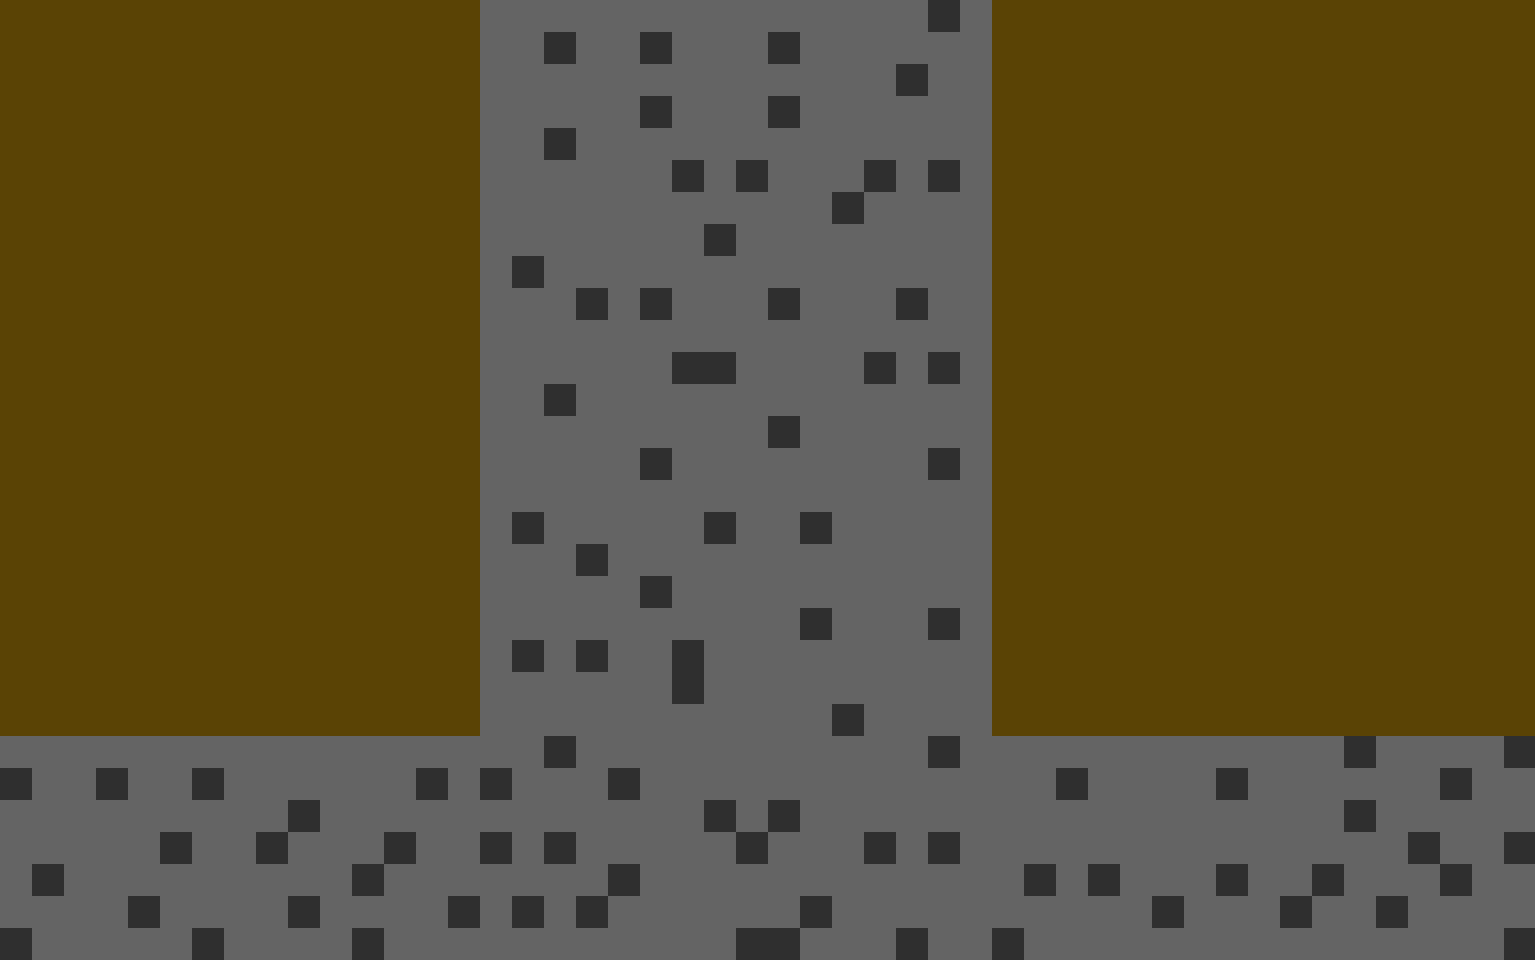
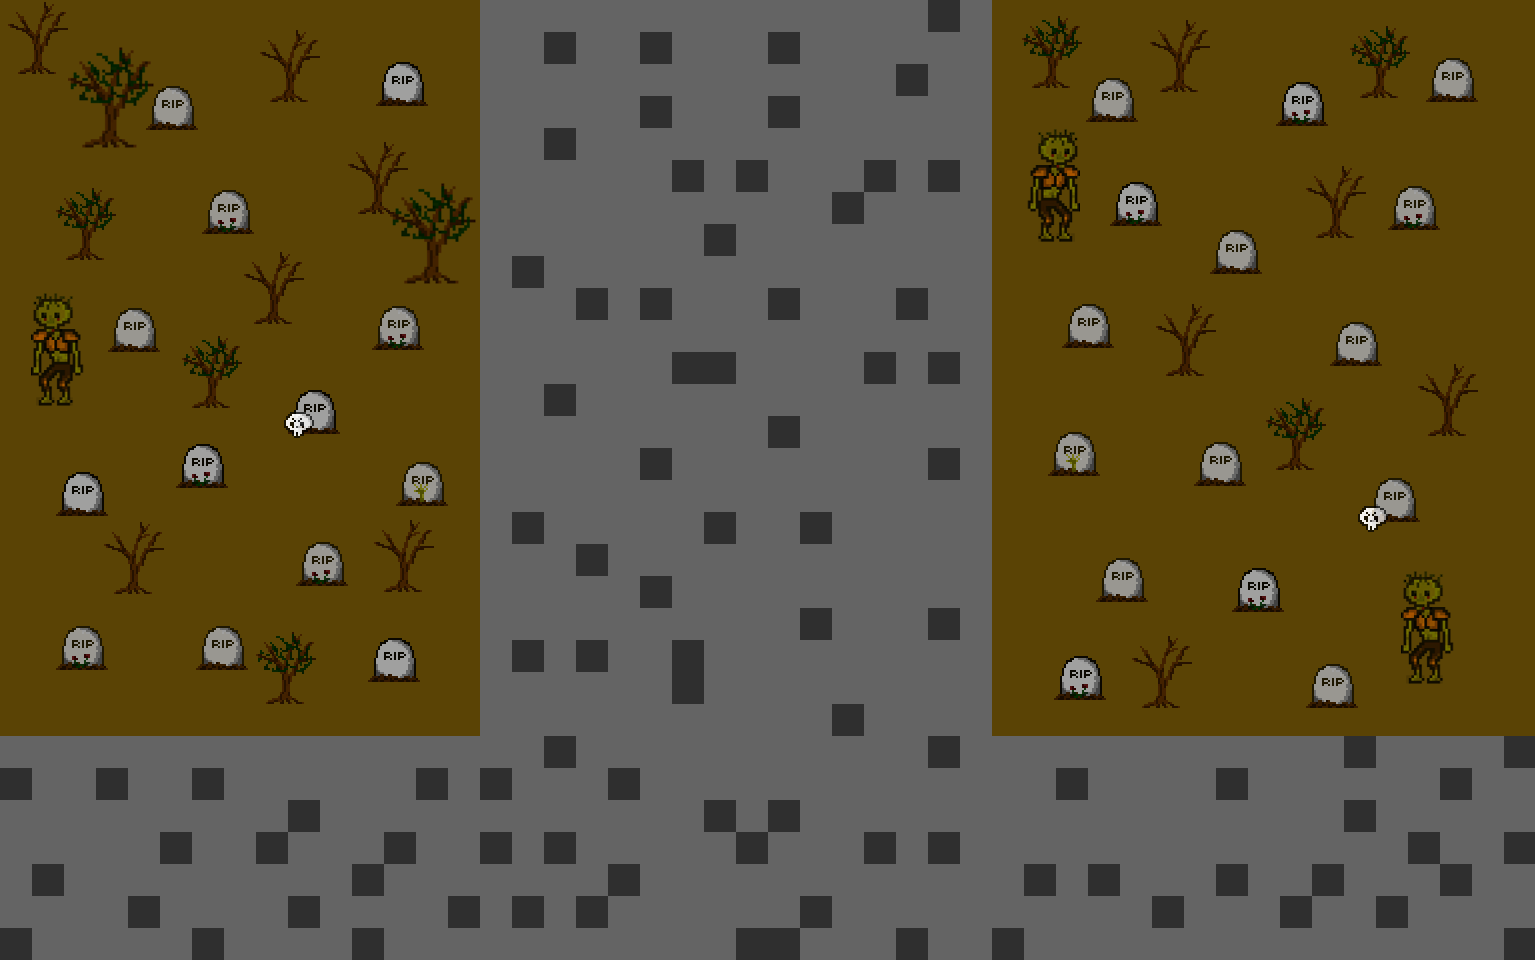
moving back and forth

diff --git a/ForestMap2.java b/ForestMap2.java
@@ -11,7 +11,7 @@ public class ForestMap2 extends World
     private Character player;
     private java.util.Random gen;
     private GreenfootSound bgm;
-    private GreenfootImage background = new GreenfootImage("images/map/scene2(2).png");
+    private GreenfootImage background = new GreenfootImage("images/map/scene2.png");
     /**
      * Constructor for objects of class ForestMap2.
      * 
@@ -47,7 +47,13 @@ public class ForestMap2 extends World
     
     public void act()
     {
-        if (player.hasMoved() && gen.nextFloat() <= 0.20)
+        if (player.hasMoved() && player.getY() == 7)
+        {
+            Greenfoot.delay(7);
+            Greenfoot.setWorld(new ForestMap1(new Character(player.getX(), 0)));
+            bgm.stop();
+        }
+        else if (player.hasMoved() && gen.nextFloat() <= 0.20)
         {
             Greenfoot.delay(7);
             Greenfoot.setWorld(new MansionBattle(player, Greenfoot.getRandomNumber(4)));

diff --git a/ForestMap1.java b/ForestMap1.java
@@ -51,7 +51,7 @@ public class ForestMap1 extends World
         if (player.hasMoved() && player.getY() == 0)
         {
             Greenfoot.delay(7);
-            Greenfoot.setWorld(new ForestMap2());
+            Greenfoot.setWorld(new ForestMap2(new Character(player.getX(), 7)));
             bgm.stop();
         }
         else if (player.hasMoved() && gen.nextFloat() <= 0.13)
